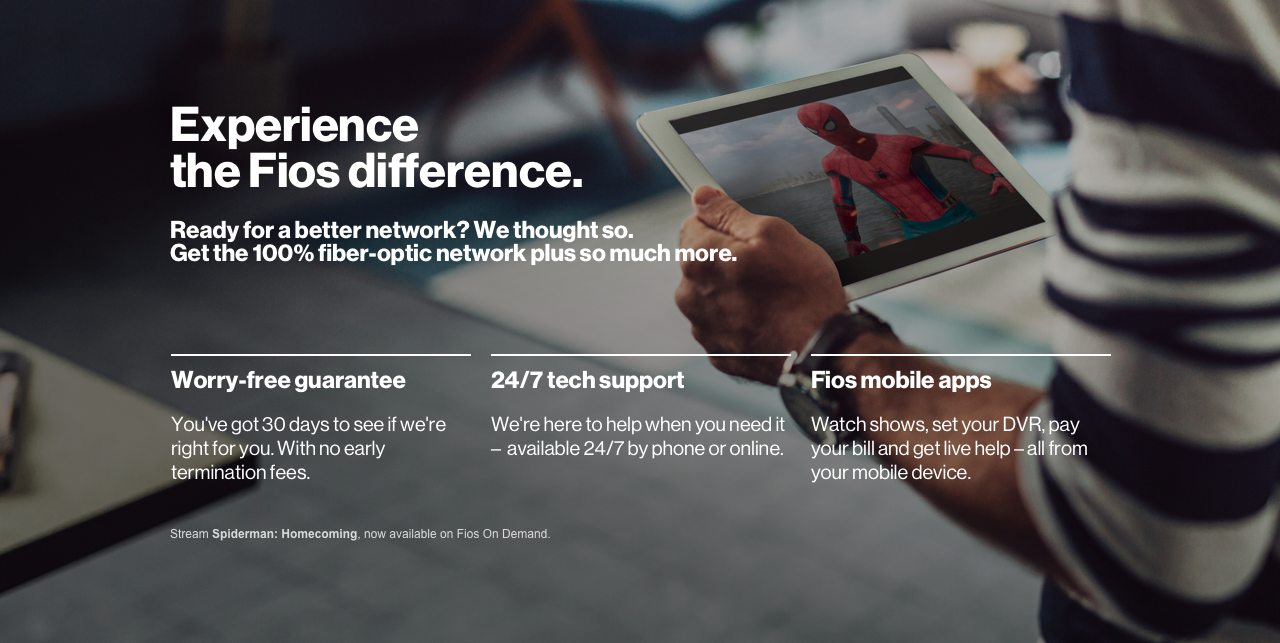
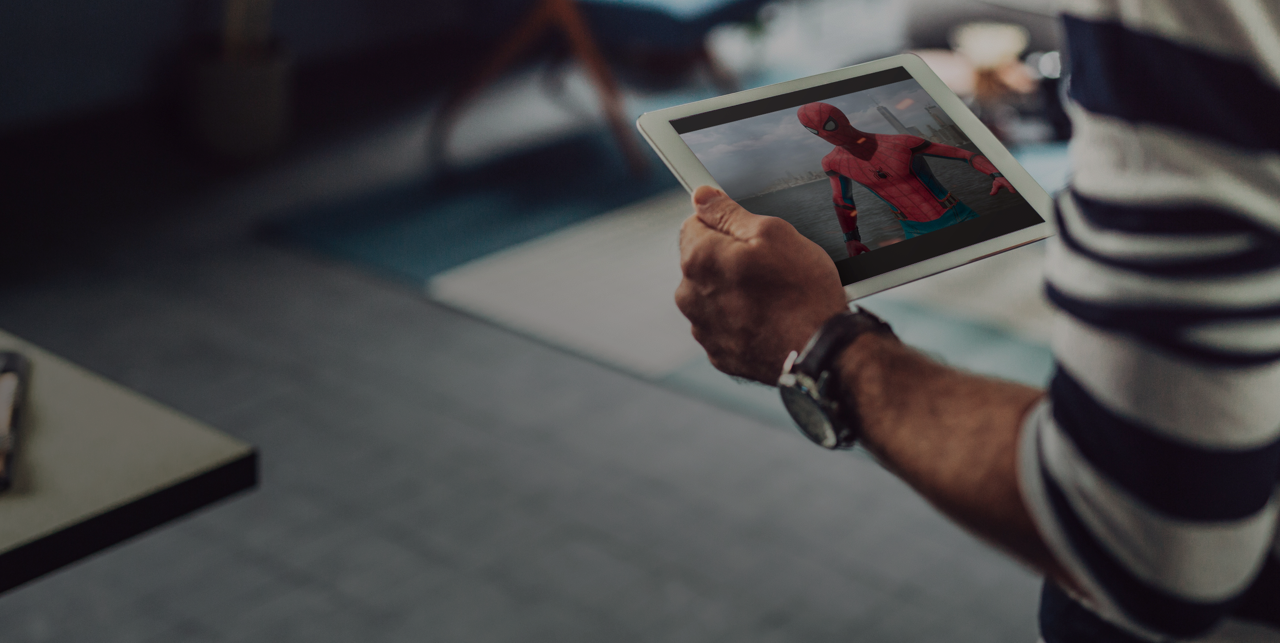
Inital commit with hero dom framework structured

diff --git a/public/style.css b/public/style.css
@@ -1937,11 +1937,9 @@
   .page-shop-fios .hero {
     height: 643px;
     background-image: url(/assets/assets-shop-fios/hero.png);
-    background-position: center;
+    /* background-position: center; */
     background-size: cover;
     position: relative;
-    margin: 59px 0 0 0;
-    padding-top: 0px;
   }
 
 
